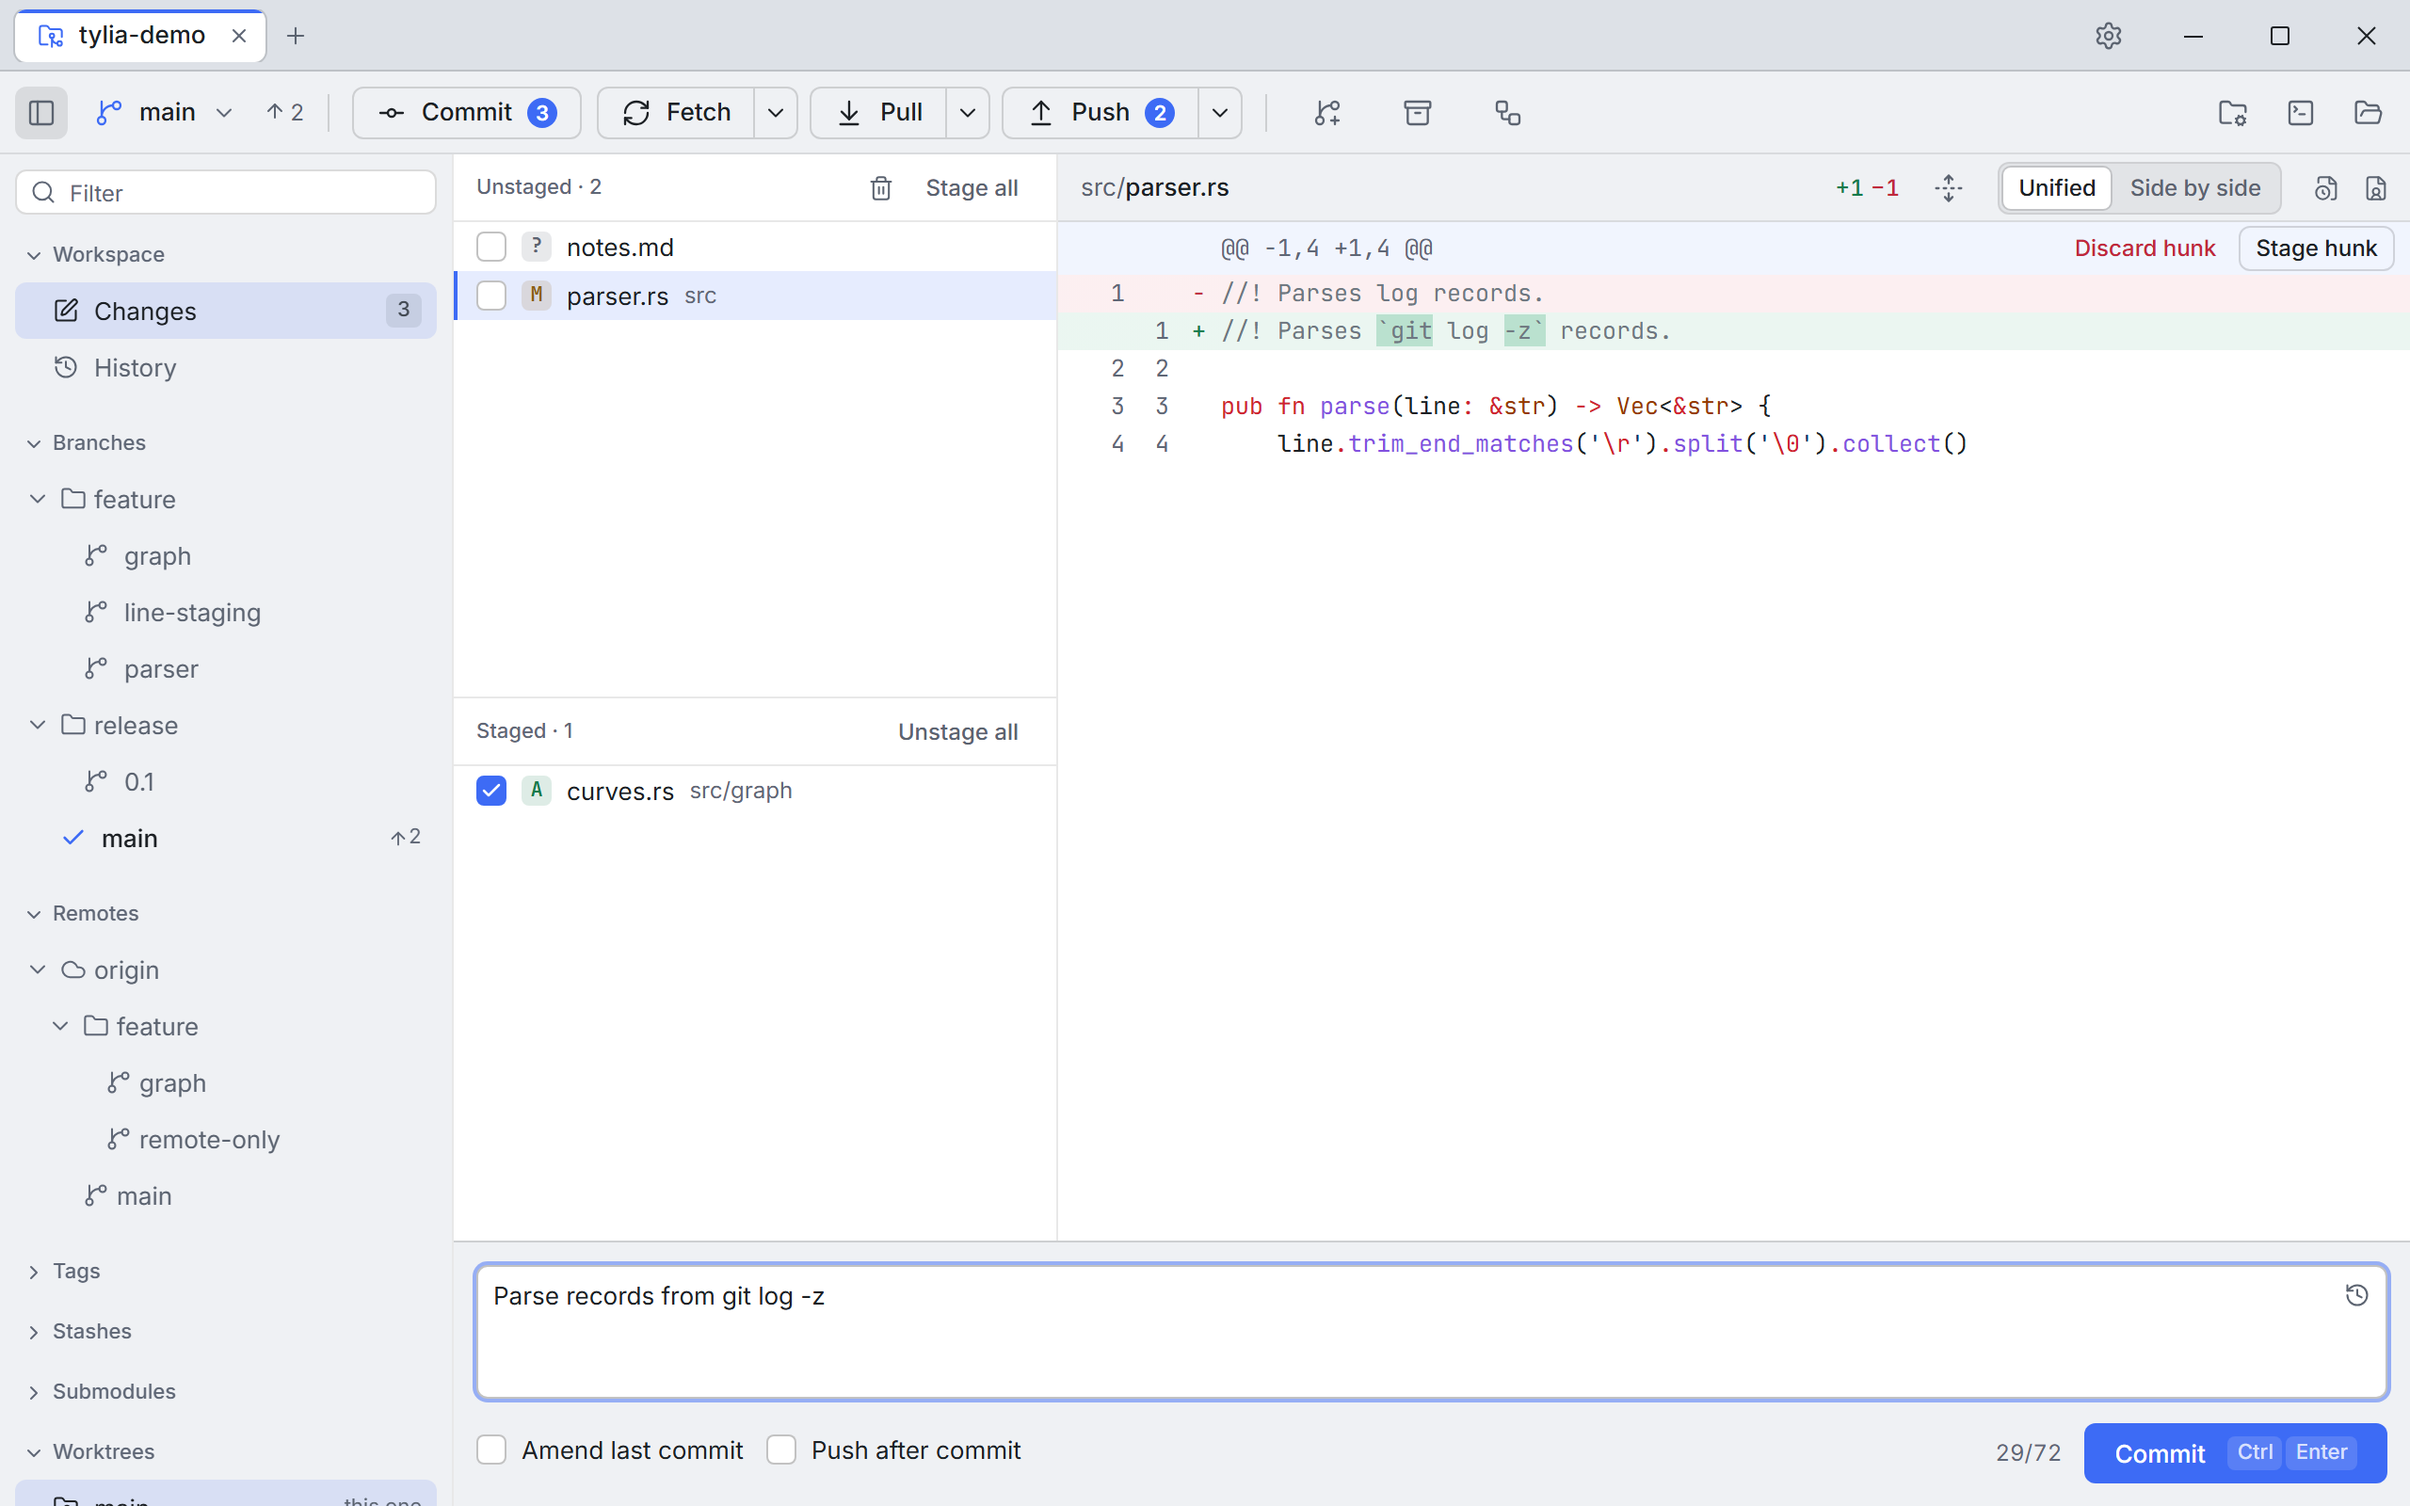
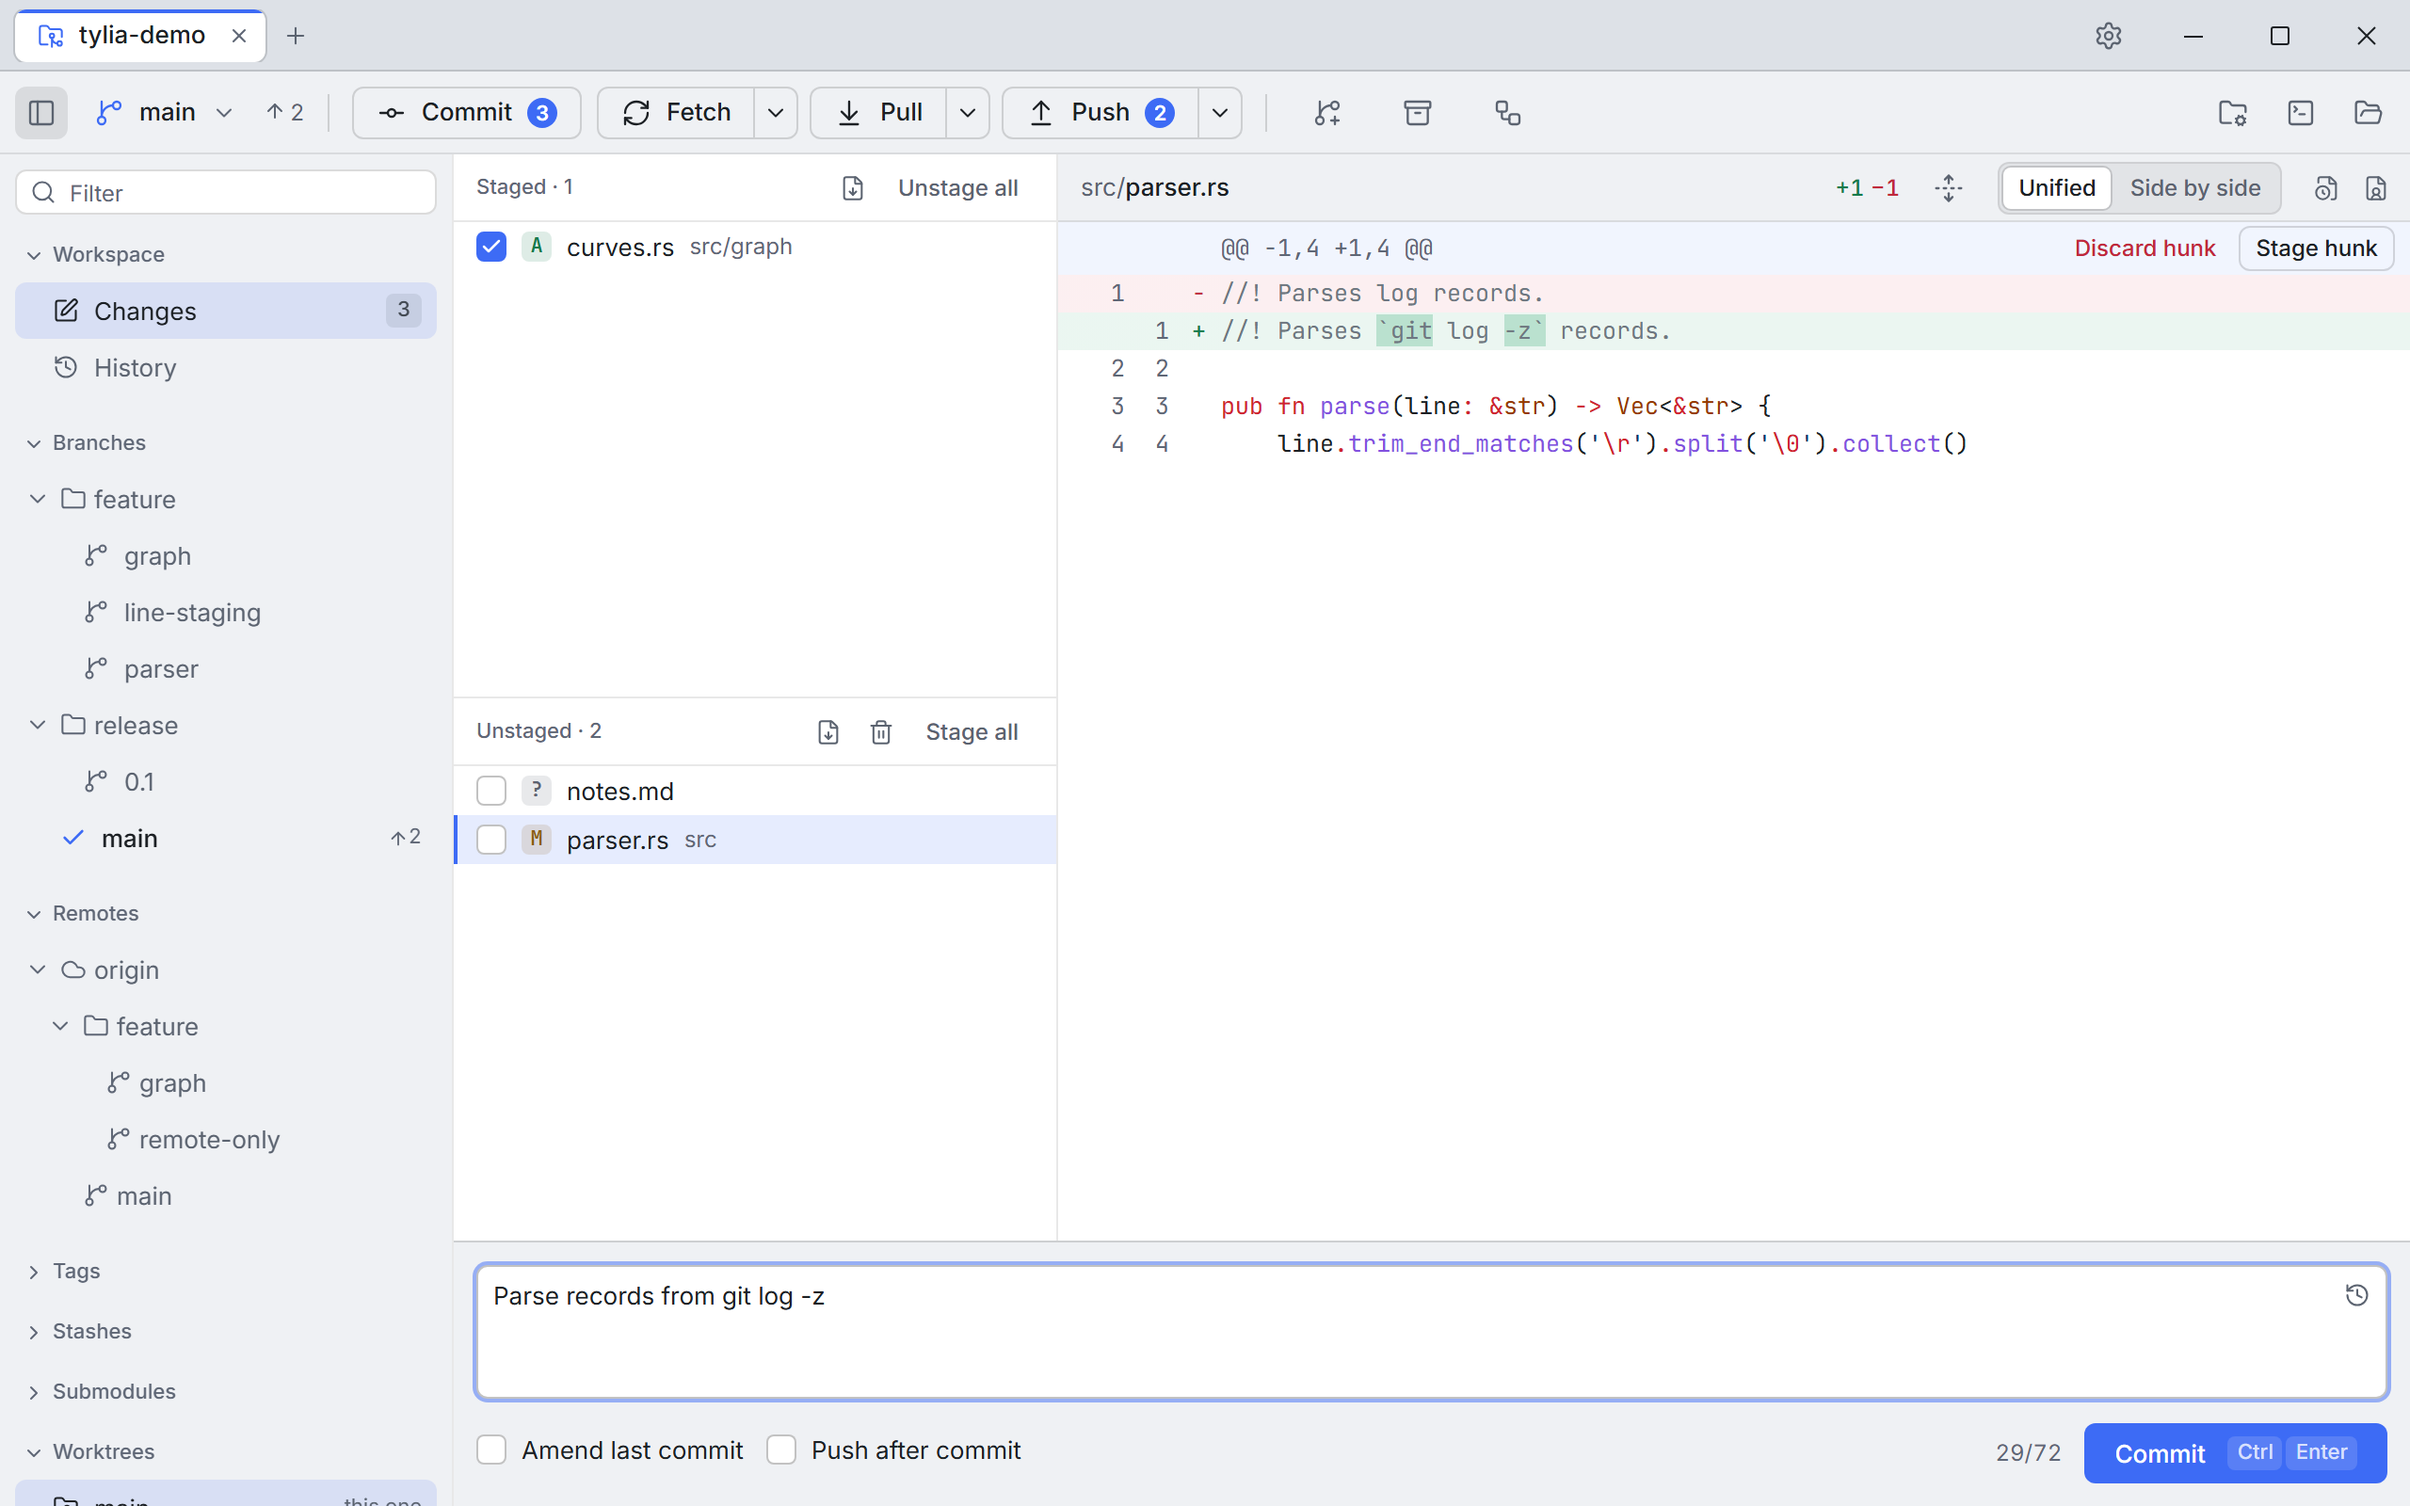
changes: put Staged above Unstaged, so changes flow upwards
As in Sourcetree, staging moves a file up towards the commit: Conflicts
(when there are any) on top, then Staged, then Unstaged, with the
commit message box still at the bottom. Up and Down past the end of one
list continue in the next, moving focus there; Shift+Up / Down still
extend the selection within one list. DESIGN.md, the README and
website screenshots and the e2e tests follow the new order.

Changed region(s): [[0.1875, 0.4688, 0.4375, 0.5938], [0.1875, 0.1562, 0.4375, 0.2188], [0.3438, 0.4688, 0.375, 0.5]]

diff --git a/src/features/changes/ChangesView.tsx b/src/features/changes/ChangesView.tsx
@@ -55,6 +55,11 @@ import { useRepoAction } from "./useRepoAction";
 /** Pointer travel before a press on a row becomes a drag. */
 const DRAG_THRESHOLD = 4;
 
+/** The lists top to bottom: changes flow upwards, from Unstaged to Staged to the commit. */
+const AREAS: Area[] = ["staged", "unstaged"];
+
+const NO_MODIFIERS = { ctrlKey: false, metaKey: false, shiftKey: false };
+
 interface Drag {
   from: Area;
   entries: ChangedEntry[];
@@ -285,8 +290,17 @@ export function ChangesView({
     if (list.length === 0) return;
     const current = list.findIndex((x) => entryKey(x) === focusKey);
     const move = (to: number) => {
+      // ↑ / ↓ past the end of a list continue in the next one (Staged above Unstaged), unless
+      // extending a selection, which stays in one list.
+      const next = to < 0 ? AREAS[AREAS.indexOf(area) - 1] : AREAS[AREAS.indexOf(area) + 1];
+      const other = next && groups[next];
+      if ((to < 0 || to >= list.length) && !e.shiftKey && other && other.length > 0) {
+        selectRow(other[to < 0 ? other.length - 1 : 0]!, NO_MODIFIERS);
+        document.querySelector<HTMLElement>(`[data-drop-area="${next}"] [role="listbox"]`)?.focus();
+        return;
+      }
       const entry = list[Math.max(0, Math.min(list.length - 1, to))]!;
-      selectRow(entry, { ctrlKey: false, metaKey: false, shiftKey: e.shiftKey });
+      selectRow(entry, { ...NO_MODIFIERS, shiftKey: e.shiftKey });
     };
     if (e.key === "ArrowDown") move(current + 1);
     else if (e.key === "ArrowUp") move(current - 1);
@@ -450,6 +464,37 @@ export function ChangesView({
           <div className="flex h-full flex-col">
             {conflicts.length > 0 && <ConflictList repo={repo} paths={conflicts} status={status} />}
             <ChangeList
+              area="staged"
+              entries={groups.staged}
+              selected={selection.area === "staged" ? selection.keys : new Set()}
+              focusKey={focusKey}
+              onRowPointerDown={onRowPointerDown}
+              onToggle={(e) => void toggle(e)}
+              onKeyDown={onListKeyDown("staged")}
+              dropActive={drag?.over === "staged"}
+              menu={menu}
+              action={{
+                label: t("changes.unstageAll"),
+                onClick: () => void unstageAll(),
+              }}
+              extra={
+                <IconButton
+                  icon={FileDown}
+                  label={t("patch.saveStaged")}
+                  compact
+                  disabled={groups.staged.length === 0}
+                  onClick={() => void saveChangesPatch(repo, true)}
+                />
+              }
+              empty={
+                <span className="flex flex-col gap-1">
+                  <span className="text-fg-secondary">{t("changes.nothingStaged")}</span>
+                  {t("changes.nothingStagedHint")}
+                </span>
+              }
+            />
+            <div className="h-px shrink-0 bg-line-subtle" />
+            <ChangeList
               area="unstaged"
               entries={groups.unstaged}
               selected={selection.area === "unstaged" ? selection.keys : new Set()}
@@ -481,37 +526,6 @@ export function ChangesView({
                 </>
               }
               empty={t("changes.nothingUnstaged")}
-            />
-            <div className="h-px shrink-0 bg-line-subtle" />
-            <ChangeList
-              area="staged"
-              entries={groups.staged}
-              selected={selection.area === "staged" ? selection.keys : new Set()}
-              focusKey={focusKey}
-              onRowPointerDown={onRowPointerDown}
-              onToggle={(e) => void toggle(e)}
-              onKeyDown={onListKeyDown("staged")}
-              dropActive={drag?.over === "staged"}
-              menu={menu}
-              action={{
-                label: t("changes.unstageAll"),
-                onClick: () => void unstageAll(),
-              }}
-              extra={
-                <IconButton
-                  icon={FileDown}
-                  label={t("patch.saveStaged")}
-                  compact
-                  disabled={groups.staged.length === 0}
-                  onClick={() => void saveChangesPatch(repo, true)}
-                />
-              }
-              empty={
-                <span className="flex flex-col gap-1">
-                  <span className="text-fg-secondary">{t("changes.nothingStaged")}</span>
-                  {t("changes.nothingStagedHint")}
-                </span>
-              }
             />
           </div>
         }

diff --git a/e2e/changes.spec.ts b/e2e/changes.spec.ts
@@ -78,3 +78,35 @@ test("staging moves the file at once (before Git answers)", async ({ page }) => 
   ).toBeVisible();
   expect(Date.now() - started).toBeLessThan(1000);
 });
+
+for (const theme of ["light", "dark"]) {
+  test(`Staged sits above Unstaged, and ↑ / ↓ cross between them (${theme})`, async ({ page }) => {
+    await page.addInitScript(() => localStorage.removeItem("tylia.web.ui"));
+    await page.setViewportSize({ width: 1280, height: 800 });
+    await page.goto(`/?theme=${theme}&platform=windows&repo=demo`);
+    await page.getByRole("button", { name: /^Changes/ }).click();
+    const staged = page.getByRole("listbox", { name: "Staged", exact: true });
+    const unstaged = page.getByRole("listbox", { name: "Unstaged", exact: true });
+    await expect(unstaged.getByRole("option")).toHaveCount(2);
+    expect((await staged.boundingBox())!.y).toBeLessThan((await unstaged.boundingBox())!.y);
+    await page.screenshot({
+      path: `e2e/__screenshots__/changes-flow-${theme}.png`,
+      animations: "disabled",
+    });
+
+    const last = staged.getByRole("option").last();
+    await last.click();
+    await expect(last).toHaveAttribute("aria-selected", "true");
+    await page.keyboard.press("ArrowDown");
+    const first = unstaged.getByRole("option").first();
+    await expect(first).toHaveAttribute("aria-selected", "true");
+    await expect(unstaged).toBeFocused();
+    await page.keyboard.press("ArrowUp");
+    await expect(last).toHaveAttribute("aria-selected", "true");
+    await expect(staged).toBeFocused();
+    // Shift extends within one list instead of crossing.
+    await page.keyboard.press("Shift+ArrowDown");
+    await expect(last).toHaveAttribute("aria-selected", "true");
+    await expect(first).toHaveAttribute("aria-selected", "false");
+  });
+}

diff --git a/docs/DESIGN.md b/docs/DESIGN.md
@@ -179,12 +179,12 @@ The checked-out branch's lane is always colour 1 (accent family) when it is visi
 
 ```
 ├──────────────┬──────────────────────────────┬─────────────────────────────────┤
-│ sidebar      │ Unstaged (3)     Stage all ⤓ │ src/app.ts                      │
-│              │ ☐ M src/app.ts               │ @@ -1,4 +1,6 @@   [Stage hunk]  │
-│              │ ☐ ? notes.md                 │ ▢ 1  + import x from "y";       │
-│              │ ☐ D old.ts                   │ ▣ 2  + import z from "w";       │
-│              │ Staged (1)     Unstage all ⤒ │   3    const a = 1;             │
-│              │ ☑ A src/new.ts               │       [Stage 1 line] [Discard]  │
+│ sidebar      │ Staged (1)     Unstage all ⤒ │ src/app.ts                      │
+│              │ ☑ A src/new.ts               │ @@ -1,4 +1,6 @@   [Stage hunk]  │
+│              │ Unstaged (3)     Stage all ⤓ │ ▢ 1  + import x from "y";       │
+│              │ ☐ M src/app.ts               │ ▣ 2  + import z from "w";       │
+│              │ ☐ ? notes.md                 │   3    const a = 1;             │
+│              │ ☐ D old.ts                   │       [Stage 1 line] [Discard]  │
 │              ├──────────────────────────────┴─────────────────────────────────┤
 │              │ Summary (subject)                                      38/72   │
 │              │ Description…                                                   │
@@ -368,7 +368,7 @@ menus.tsx`); a commit's menu also has a submenu per ref on it, and "Merge option
   merge / rebase / cherry-pick / revert is in progress: what is happening (rebase: commit n of
   m), conflicts left, "Show conflicts", Abort (confirms), Skip commit (not for merge), and
   Continue / Commit merge (disabled until conflicts are resolved). In Changes, conflicted files
-  get their own list above Unstaged (selected first); the diff pane shows the file with its
+  get their own list on top, above Staged (selected first); the diff pane shows the file with its
   markers against "my version", with Use my version / Use their version (during a rebase: the
   base version / my commit's version, since ours and theirs swap), Open merge tool, and Mark
   resolved, which warns if conflict markers are still in the file. Merge / rebase / pick /
@@ -489,3 +489,7 @@ menus.tsx`); a commit's menu also has a submenu per ref on it, and "Merge option
   folder-with-gear button in the toolbar, the palette, and a "Manage remotes" button on
   the sidebar's Remotes header. Global Git settings are shown with where they come from
   and never changed.
+- **2026-10-22 — Changes flow upwards** (as in Sourcetree). Top to bottom: Conflicts (when
+  there are any: they block the commit), Staged, Unstaged. Staging moves a file up towards
+  the commit; the commit message box stays at the bottom of the view. ↑ / ↓ past the end
+  of one list continue in the next (Shift+↑ / ↓ still extend within one list).

diff --git a/docs/ROADMAP.md b/docs/ROADMAP.md
@@ -805,8 +805,12 @@ UI, and the Flatpak and Linux packaging gaps found in Phase 8 are closed. It end
 
 #### A. Changes flow upwards (first)
 
-- [ ] **Staged above Unstaged**, as in Sourcetree: unstaged and untracked files at the
+- [x] **Staged above Unstaged**, as in Sourcetree: unstaged and untracked files at the
       bottom, staged files above them, so staging moves a file up towards the commit.
+      _Done 2026-10-22. Decided with the user: Conflicts stay on top, the commit box stays
+      at the bottom. ↑ / ↓ cross between the lists (Shift extends within one); the lists
+      have no shared split, so no saved layout to migrate. DESIGN.md, the README / website
+      screenshots and e2e updated._
   - **Order of the lists:** Conflicts (when there are any) on top, then Staged, then
     Unstaged. **Decide** whether conflicts stay first (recommendation: yes, they block the
     commit) or go just above Unstaged.
